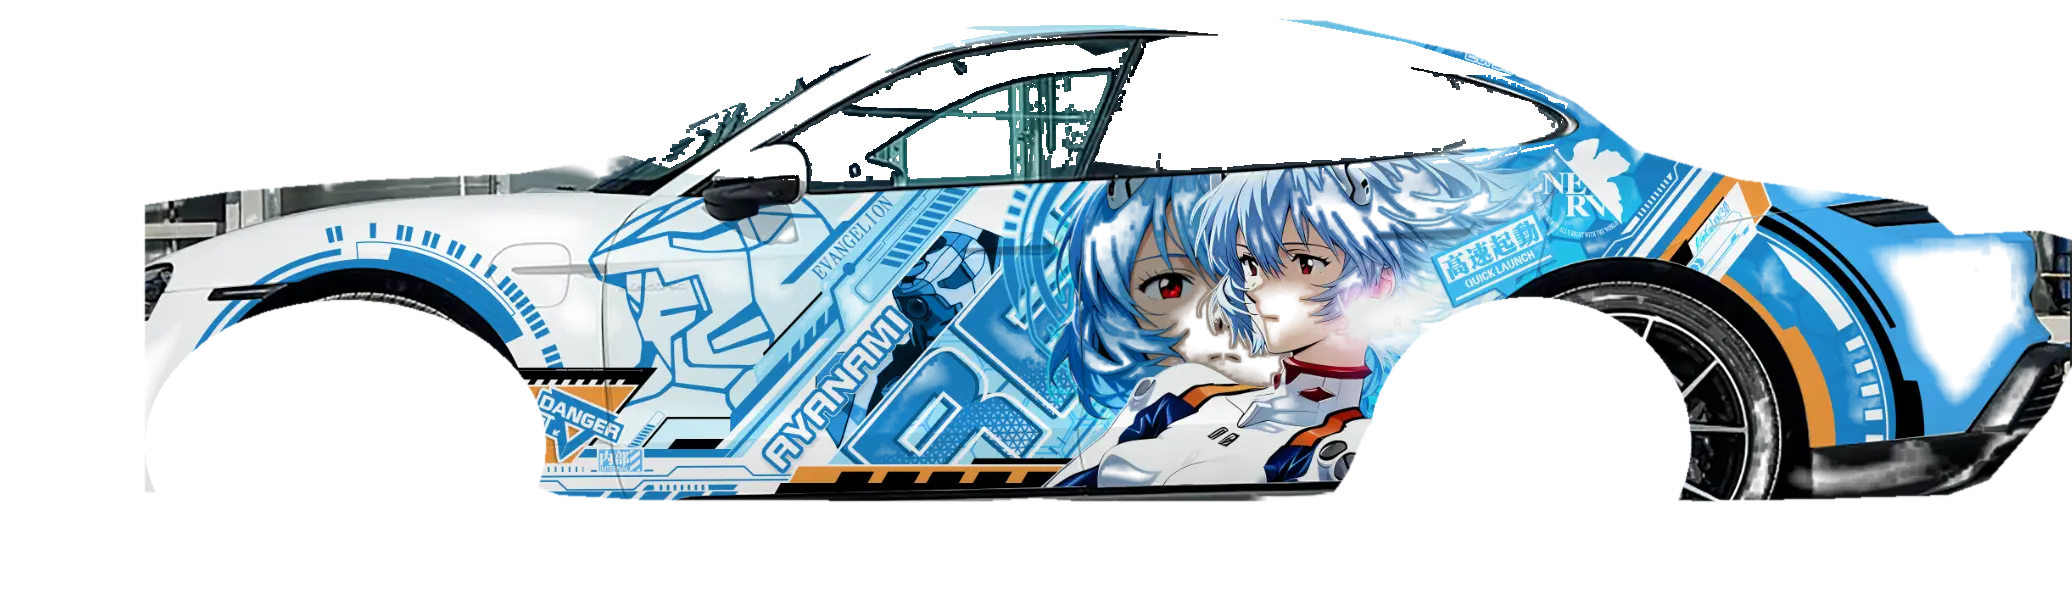
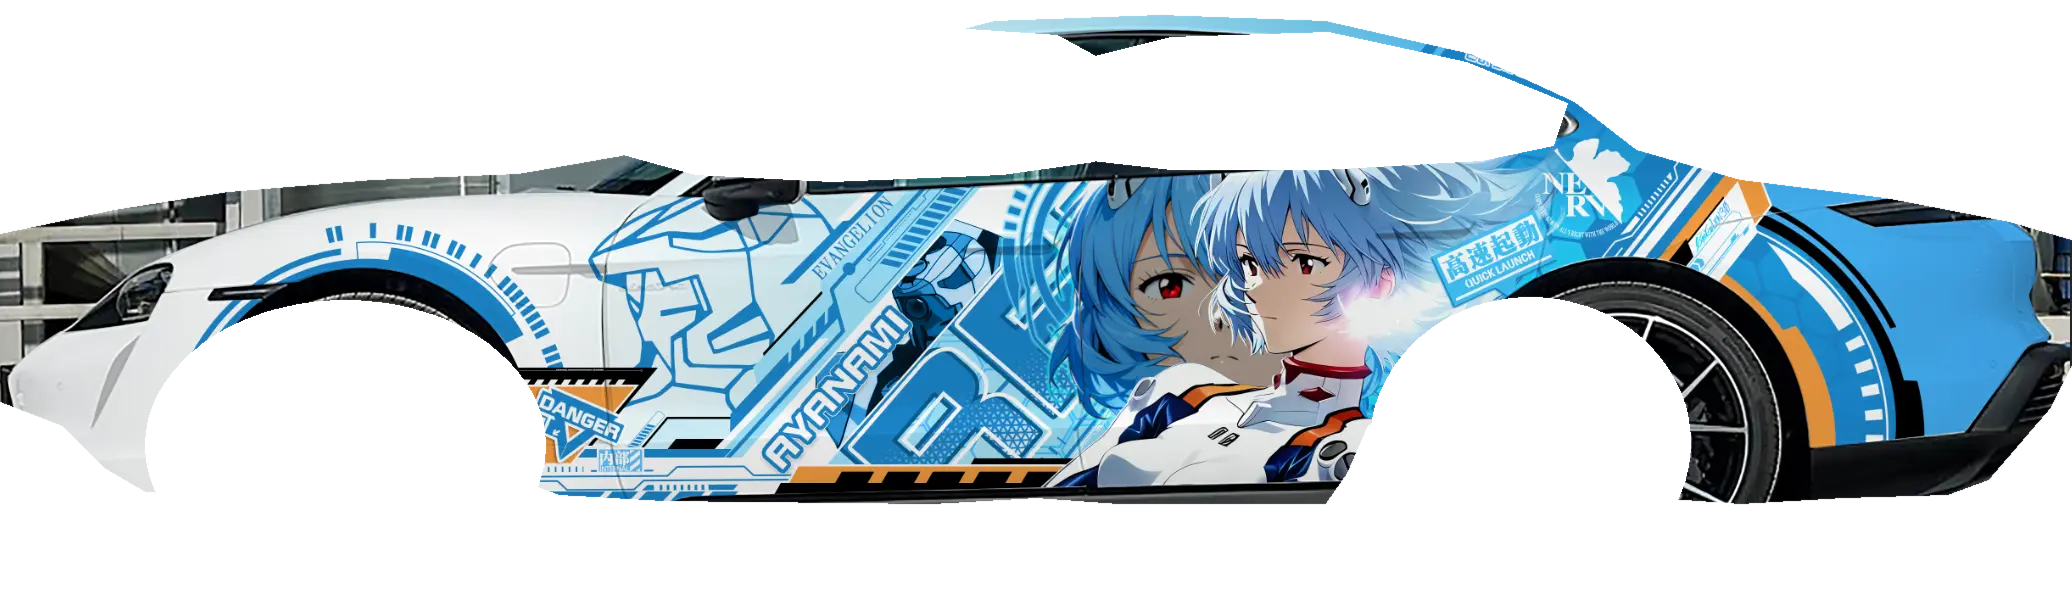
Exclude glass from decal targets; whole-image projection for body panels

diff --git a/app.js b/app.js
@@ -295,110 +295,6 @@ function clearProjectedDecals(restoreGlass = true) {
   if (restoreGlass) for (const [mesh, material] of glassSourceMaterials) mesh.material = material;
 }
 
-function makePerspectiveOverlayMaterial(texture, side) {
-  const params = projectionCameras?.[side];
-  if (!params) return null;
-  const K = params.intrinsics_px, R = params.rotation_matrix_world_to_camera, t = params.translation_camera;
-  const groundOffset = Math.max(0, -carBounds?.min.y || 0);
-  const uniforms = {
-    uCamR: { value: new THREE.Matrix3().set(R[0][0],R[0][1],R[0][2],R[1][0],R[1][1],R[1][2],R[2][0],R[2][1],R[2][2]) },
-    uCamT: { value: new THREE.Vector3(t[0]-R[0][1]*groundOffset,t[1]-R[1][1]*groundOffset,t[2]-R[2][1]*groundOffset) },
-    uIntrinsics: { value: new THREE.Vector4(K[0][0],K[1][1],K[0][2],K[1][2]) },
-    uImageSize: { value: new THREE.Vector2(params.source_dimensions_px[0],params.source_dimensions_px[1]) },
-    uLiveryTransform: { value: new THREE.Vector4(1,0,0,0) }
-  };
-  const updateTransform = () => uniforms.uLiveryTransform.value.set(
-    Math.max(.05,state.scale), state.x * .035, state.y * .035,
-    THREE.MathUtils.degToRad(state.rotation)
-  );
-  updateTransform();
-  const material = new THREE.MeshBasicMaterial({ map: texture, transparent: true, opacity: 1,
-    depthTest: true, depthWrite: false, polygonOffset: true, polygonOffsetFactor: -4,
-    side: THREE.DoubleSide, toneMapped: false });
-  material.onBeforeCompile = shader => {
-    Object.assign(shader.uniforms, uniforms);
-    shader.vertexShader = shader.vertexShader
-      .replace('#include <common>', '#include <common>\nvarying vec3 vSharedLiveryCameraPosition; uniform mat3 uCamR; uniform vec3 uCamT;')
-      .replace('#include <begin_vertex>', '#include <begin_vertex>\nvec4 decalWorldPosition = modelMatrix * vec4(transformed,1.0); vSharedLiveryCameraPosition = uCamR * decalWorldPosition.xyz + uCamT;');
-    shader.fragmentShader = shader.fragmentShader
-      .replace('#include <common>', '#include <common>\nvarying vec3 vSharedLiveryCameraPosition; uniform vec4 uIntrinsics; uniform vec2 uImageSize; uniform vec4 uLiveryTransform;')
-      .replace('#include <map_fragment>', `
-        #ifdef USE_MAP
-          float pz = vSharedLiveryCameraPosition.z;
-          vec2 pixel = vec2(uIntrinsics.x*vSharedLiveryCameraPosition.x + uIntrinsics.z*pz,
-                            uIntrinsics.y*vSharedLiveryCameraPosition.y + uIntrinsics.w*pz) / max(pz,0.0001);
-          vec2 puv = pixel / uImageSize;
-          puv.y = 1.0 - puv.y;
-          float cs = cos(uLiveryTransform.w), sn = sin(uLiveryTransform.w);
-          puv = (mat2(cs,-sn,sn,cs) * (puv - 0.5) / uLiveryTransform.x) + 0.5 - uLiveryTransform.yz;
-          if (pz > 0.0 && puv.x >= 0.0 && puv.x <= 1.0 && puv.y >= 0.0 && puv.y <= 1.0) {
-            vec4 projectedColor = texture2D(map,puv);
-            diffuseColor *= projectedColor;
-          } else { diffuseColor.a = 0.0; }
-        #else
-          diffuseColor.a = 0.0;
-        #endif
-      `);
-  };
-  material.customProgramCacheKey = () => `shared-perspective-wrap-${side}`;
-  material.userData.updateLiveryTransform = updateTransform;
-  return material;
-}
-
-function buildSharedSideWrap(side) {
-  clearProjectedDecals(false);
-  const sign = side === 'left' ? -1 : 1;
-  const orientation = new THREE.Quaternion().setFromUnitVectors(new THREE.Vector3(0,0,1), new THREE.Vector3(sign,0,0));
-  const pos = new THREE.Vector3(0, .82, 0);
-  // One 3D projection volume is reused for every exterior target. Texture
-  // lookup remains the calibrated source-camera projection, so both panels
-  // get identical coordinates where their boundaries meet.
-  const volume = new THREE.Vector3(5.25, 1.72, 2.4);
-  const euler = new THREE.Euler().setFromQuaternion(orientation, 'XYZ');
-  const glassTinted = new Set();
-  const targets = [];
-  carRoot.updateMatrixWorld(true);
-  carRoot.traverse(o => {
-    if (!o.isMesh) return;
-    const mats = Array.isArray(o.material) ? o.material : (o.material ? [o.material] : []);
-    const names = mats.map(m => (m?.name || '').toLowerCase());
-    const isPaint = names.includes('corpus1');
-    const isGlass = names.some(n => n === 'glass2' || n === 'black_glass1');
-    if (!isPaint && !isGlass) return;
-    targets.push({ mesh:o, isPaint, isGlass, materialName:mats.map(m=>m.name).join(',') });
-  });
-  const tex = projectedTexture;
-  for (const { mesh, isGlass } of targets) {
-    if (isGlass && !glassTinted.has(mesh)) {
-      const originals = Array.isArray(mesh.material) ? mesh.material : [mesh.material];
-      const tinted = originals.map(m => {
-        const clone = m.clone();
-        clone.color.set(0x09131f);
-        clone.transparent = false; clone.opacity = 1; clone.depthWrite = true;
-        clone.roughness = .32; clone.metalness = .12; clone.needsUpdate = true;
-        return clone;
-      });
-      mesh.material = Array.isArray(mesh.material) ? tinted : tinted[0];
-      glassTinted.add(mesh);
-    }
-    const geometry = new DecalGeometry(mesh, pos, euler, volume);
-    if (!geometry.attributes.position?.count) { geometry.dispose(); continue; }
-    const material = makePerspectiveOverlayMaterial(tex, side);
-    if (!material) { geometry.dispose(); continue; }
-    const decal = new THREE.Mesh(geometry, material);
-    decal.renderOrder = 4;
-    decal.name = `shared-wrap-${side}-${mesh.name || 'mesh'}-${materialNameFor(mesh)}`;
-    scene.add(decal); projectedDecalMeshes.push(decal);
-  }
-  window.__wrapDebug = { side, targetMeshes: targets.map(t => ({name:t.mesh.name, material:t.materialName, paintedShell:t.isPaint, glazing:t.isGlass})),
-    decalMeshes: projectedDecalMeshes.map(m=>({name:m.name, vertices:m.geometry.attributes.position.count})),
-    sharedProjector: { position:pos.toArray(), orientation:orientation.toArray(), size:volume.toArray() } };
-}
-function materialNameFor(mesh) {
-  const mats = Array.isArray(mesh.material) ? mesh.material : [mesh.material];
-  return mats.map(m=>m?.name || 'unnamed').join('-');
-}
-
 function applyProjectedPreset(side, img) {
   clearProjectedDecals(true);
   if (projectedTexture) projectedTexture.dispose();
@@ -407,9 +303,22 @@ function applyProjectedPreset(side, img) {
   projectedSide = side;
   if (side === 'left' || side === 'right') {
     if (projectedMaterial) { bodyMesh.material = sourceBodyMaterial; projectedMaterial = null; }
-    if (sourceBodyMaterial) bodyMesh.material = sourceBodyMaterial;
-    buildSharedSideWrap(side);
-    window.__projectDebug = { side, targets: window.__wrapDebug?.targetMeshes };
+    // Side artwork is projected onto the painted body shell only. The two
+    // glazing meshes are deliberately excluded from the target set.
+    const glassNames = new Set(['mesh_2', 'mesh_2_2']);
+    const targetNames = [bodyMesh.name];
+    const targets = [];
+    carRoot.traverse(mesh => {
+      if (mesh.isMesh && targetNames.includes(mesh.name) && !glassNames.has(mesh.name)) targets.push(mesh);
+    });
+    const material = targets.includes(bodyMesh) ? makeProjectedMaterial(projectedTexture, side) : null;
+    if (material) {
+      bodyMesh.material = material; projectedMaterial = material;
+      window.__projectDebug = { side, params: projectionCameras?.[side], body: bodyMesh.name,
+        method: 'calibrated-camera-on-painted-shell', targets: targets.map(mesh => mesh.name),
+        excludedGlazing: ['mesh_2', 'mesh_2_2'], sourceAspect: img.naturalWidth / img.naturalHeight };
+    }
+    if (decalMesh) { scene.remove(decalMesh); decalMesh.geometry.dispose(); decalMesh.material.dispose(); decalMesh = null; }
     buildDecal();
     return;
   }
@@ -442,6 +351,19 @@ function applyProjectedPreset(side, img) {
 
 function flyToSide(side) {
   if (!carBounds) return;
+  if (shotSide === side && projectionCameras?.[side]?.focal_px && (side === 'left' || side === 'right')) {
+    const params = projectionCameras[side];
+    const groundOffset = Math.max(0, -carBounds.min.y || 0);
+    const p = params.camera_position_world;
+    const target = new THREE.Vector3(0, p[1] + groundOffset, 0);
+    orbit.target.copy(target);
+    camera.position.set(p[0], p[1] + groundOffset, p[2]);
+    camera.up.set(0, 1, 0);
+    camera.fov = THREE.MathUtils.radToDeg(2 * Math.atan(params.source_dimensions_px[1] / (2 * params.intrinsics_px[1][1])));
+    camera.aspect = params.source_dimensions_px[0] / params.source_dimensions_px[1];
+    camera.updateProjectionMatrix(); orbit.update();
+    return;
+  }
   const size = carBounds.getSize(new THREE.Vector3());
   const cy = (carBounds.min.y + carBounds.max.y) / 2;
   const d = Math.max(size.x, size.z) * 2.05 * (shotSide && side === 'hood' ? .68 : shotSide && side === 'rear' ? .42 : 1);
@@ -487,4 +409,19 @@ document.querySelector('#closePanel').addEventListener('click', () => document.q
 function resize() { const w = viewport.clientWidth, h = viewport.clientHeight; if (!w || !h) return; camera.aspect = w / h; camera.updateProjectionMatrix(); renderer.setSize(w, h, false); }
 new ResizeObserver(resize).observe(viewport); resize();
 if (!shotSide) renderer.setAnimationLoop(() => { orbit.update(); renderer.render(scene, camera); });
-if (shotSide) await shotReady;
+if (shotSide) {
+  await shotReady;
+  const query = new URLSearchParams(location.search);
+  const outWidth = Number(query.get('width')) || projectionCameras?.[state.side]?.source_dimensions_px?.[0];
+  const outHeight = Number(query.get('height')) || projectionCameras?.[state.side]?.source_dimensions_px?.[1];
+  if (outWidth && outHeight) {
+    renderer.setPixelRatio(1); camera.aspect = outWidth / outHeight;
+    camera.updateProjectionMatrix(); renderer.setSize(outWidth, outHeight, false);
+    if (query.get('mode') === 'base') bodyMesh.material = sourceBodyMaterial;
+    renderer.render(scene, camera);
+    if (query.has('capture')) renderer.domElement.toBlob(blob => {
+      const a = document.createElement('a'); a.download = query.get('capture');
+      a.href = URL.createObjectURL(blob); a.click(); setTimeout(() => URL.revokeObjectURL(a.href), 1000);
+    }, 'image/png');
+  }
+}

diff --git a/utils/process_livery.py b/utils/process_livery.py
@@ -83,58 +83,45 @@ def paint_mask(name, image, carmask):
         alpha[533:668,500:871]=0
         rgba=cv2.cvtColor(image,cv2.COLOR_BGR2BGRA); rgba[:,:,3]=alpha
         return rgba
-    # Side masks are spatial masks of the photographed body. Every RGB value
-    # inside the body survives, including printed white and the pale-blue ramp.
+    # Side source images are the finished design. Keep every source pixel on
+    # the car body silhouette, including broad fills, gradients, characters,
+    # lettering, and pale line work. Only glazing and the wheel/tyre openings
+    # are removed from the projection matte.
     if name in ('left','right'):
         def poly_mask(points):
-            pts = np.array([[(round(x*(w-1)),round(y*(h-1))) for x,y in points]],np.int32)
-            m = np.zeros((h,w),np.uint8); cv2.fillPoly(m,pts,255); return m
-        # Clamp to the photographed car silhouette. Side glass is part of the
-        # show-car wrap surface, so the envelope spans from the roof/glazing
-        # edge through the rocker line; only wheels and plate are cut out.
+            pts=np.array([[(round(x*(w-1)),round(y*(h-1))) for x,y in points]],np.int32)
+            m=np.zeros((h,w),np.uint8); cv2.fillPoly(m,pts,255); return m
         outlines = {
           'left': [(0,.31),(.055,.30),(.10,.26),(.14,.18),(.22,.10),(.32,.04),(.42,.005),(.53,.005),(.62,.025),(.69,.08),(.75,.17),(.79,.27),(.84,.30),(.94,.32),(1,.39),(1,.59),(.98,.67),(.96,.73),(.94,.83),(.92,.86),(.86,.865),(.76,.86),(.72,.84),(.61,.86),(.30,.86),(.27,.84),(.26,.72),(.235,.66),(.21,.64),(.19,.65),(.17,.71),(.17,.86),(.09,.86),(.065,.84),(.05,.80),(.03,.75),(0,.70)],
           'right': [(0,.39),(.055,.35),(.11,.32),(.18,.30),(.25,.29),(.30,.26),(.34,.20),(.38,.14),(.43,.08),(.48,.035),(.56,.025),(.64,.035),(.71,.09),(.76,.17),(.79,.25),(.84,.30),(.91,.33),(.97,.37),(1,.40),(1,.61),(.99,.68),(.975,.74),(.96,.80),(.94,.825),(.89,.83),(.84,.84),(.80,.83),(.78,.81),(.77,.76),(.76,.71),(.74,.67),(.71,.65),(.68,.66),(.66,.71),(.65,.79),(.64,.84),(.54,.84),(.50,.83),(.45,.84),(.32,.835),(.27,.825),(.25,.80),(.245,.74),(.23,.70),(.21,.68),(.19,.68),(.17,.72),(.16,.80),(.15,.835),(.07,.82),(.05,.78),(.03,.71),(0,.67)]
         }[name]
-        # The hand-traced envelope is the body-region mask. Do not intersect
-        # it with GrabCut: GrabCut treats thin, pale-blue print on white paint
-        # as background and removes the front-fender line-work.
-        keep = poly_mask(outlines)
-        # Exclude the full visible tyre and wheel disc, with an approximately
-        # 12 px margin. Rectangles intentionally cover the photographed tyre
-        # shoulder and all spokes; this alpha is only for artwork projection.
-        # Pixel bounds below enclose the ellipse after its safety margin.
+        alpha=poly_mask(outlines)
         wheel_masks = ([(360,353,175,145),(1375,362,180,145)] if name=='left'
                        else [(345,445,200,145),(1530,442,160,145)])
+        exclusions=[]
         for x,y,rx,ry in wheel_masks:
-            cv2.ellipse(keep,(x,y),(rx,ry),0,0,360,0,-1)
-        # The right photo's clean white nose ends just before the front arch;
-        # leave that whole base-coat area transparent so the shader gradient
-        # remains visible there.
+            cv2.ellipse(alpha,(x,y),(rx,ry),0,0,360,0,-1)
+            exclusions.append(('ellipse',(x,y,rx,ry)))
+        def region(points):
+            m=np.zeros((h,w),np.uint8); cv2.fillPoly(m,[np.asarray(points,np.int32)],255); return m
         if name == 'right':
-            keep[:, :145] = 0
+            glass=np.maximum(
+                region([(605,101),(775,49),(938,27),(1057,35),(1101,59),(1094,161),(1002,174),(831,181),(695,174),(590,145)]),
+                region([(1090,57),(1170,37),(1328,32),(1466,62),(1567,103),(1553,145),(1481,160),(1322,169),(1171,169),(1092,160)])
+            )
         else:
-            keep[:, 1530:] = 0
-        # The lower black rocker and photographed plate are not body artwork.
-        if name == 'left':
-            rocker = [(0,.855),(.17,.855),(.29,.858),(.34,.852),(.42,.861),(.59,.864),(.75,.862),(.87,.853),(1,.850),(1,1),(0,1)]
-            plates = [[(.946,.46),(.987,.46),(.987,.58),(.946,.58)]]
-        else:
-            rocker = [(0,.824),(.18,.825),(.32,.834),(.48,.837),(.64,.837),(.78,.838),(.91,.831),(1,.820),(1,1),(0,1)]
-            plates = [[(.004,.40),(.055,.40),(.055,.55),(.004,.55)]]
-        keep[poly_mask(rocker)>0] = 0
-        for p in plates: keep[poly_mask(p)>0] = 0
-        # Keep the photographed window areas in the printable envelope; only
-        # the source taillamp is an exclusion in this band.
-        if name == 'left':
-            tail_lamp = [(0,135),(116,132),(155,152),(157,180),(116,194),(0,188)]
-        else:
-            tail_lamp = [(1930,174),(2071,173),(2071,228),(1954,234),(1928,211)]
-        # The client wraps the side glazing as part of the continuous print.
-        # Keep its local artwork strokes in the same alpha layer as the doors;
-        # the runtime lays opaque printed film over an opaque dark tint.
-        cv2.fillPoly(keep, [np.asarray(tail_lamp,np.int32)], 0)
-        alpha = keep
+            glass=np.maximum(
+                region([(386,82),(494,48),(648,29),(796,32),(861,52),(868,147),(778,160),(620,159),(485,145),(397,119)]),
+                region([(860,52),(935,34),(1034,35),(1113,57),(1182,87),(1144,125),(1056,143),(948,151),(870,146)])
+            )
+        alpha[glass>0]=0
+        # Smooth only the car silhouette; then reassert all physical cutouts.
+        alpha=cv2.GaussianBlur(alpha,(3,3),.45)
+        alpha[glass>0]=0
+        for x,y,rx,ry in wheel_masks:
+            cv2.ellipse(alpha,(x,y),(rx,ry),0,0,360,0,-1)
+        rgba=cv2.cvtColor(image,cv2.COLOR_BGR2BGRA); rgba[:,:,3]=alpha
+        return rgba
     else:
         hsv = cv2.cvtColor(image, cv2.COLOR_BGR2HSV)
         chroma = np.clip((hsv[:,:,1].astype(np.float32)-40)/75,0,1)
